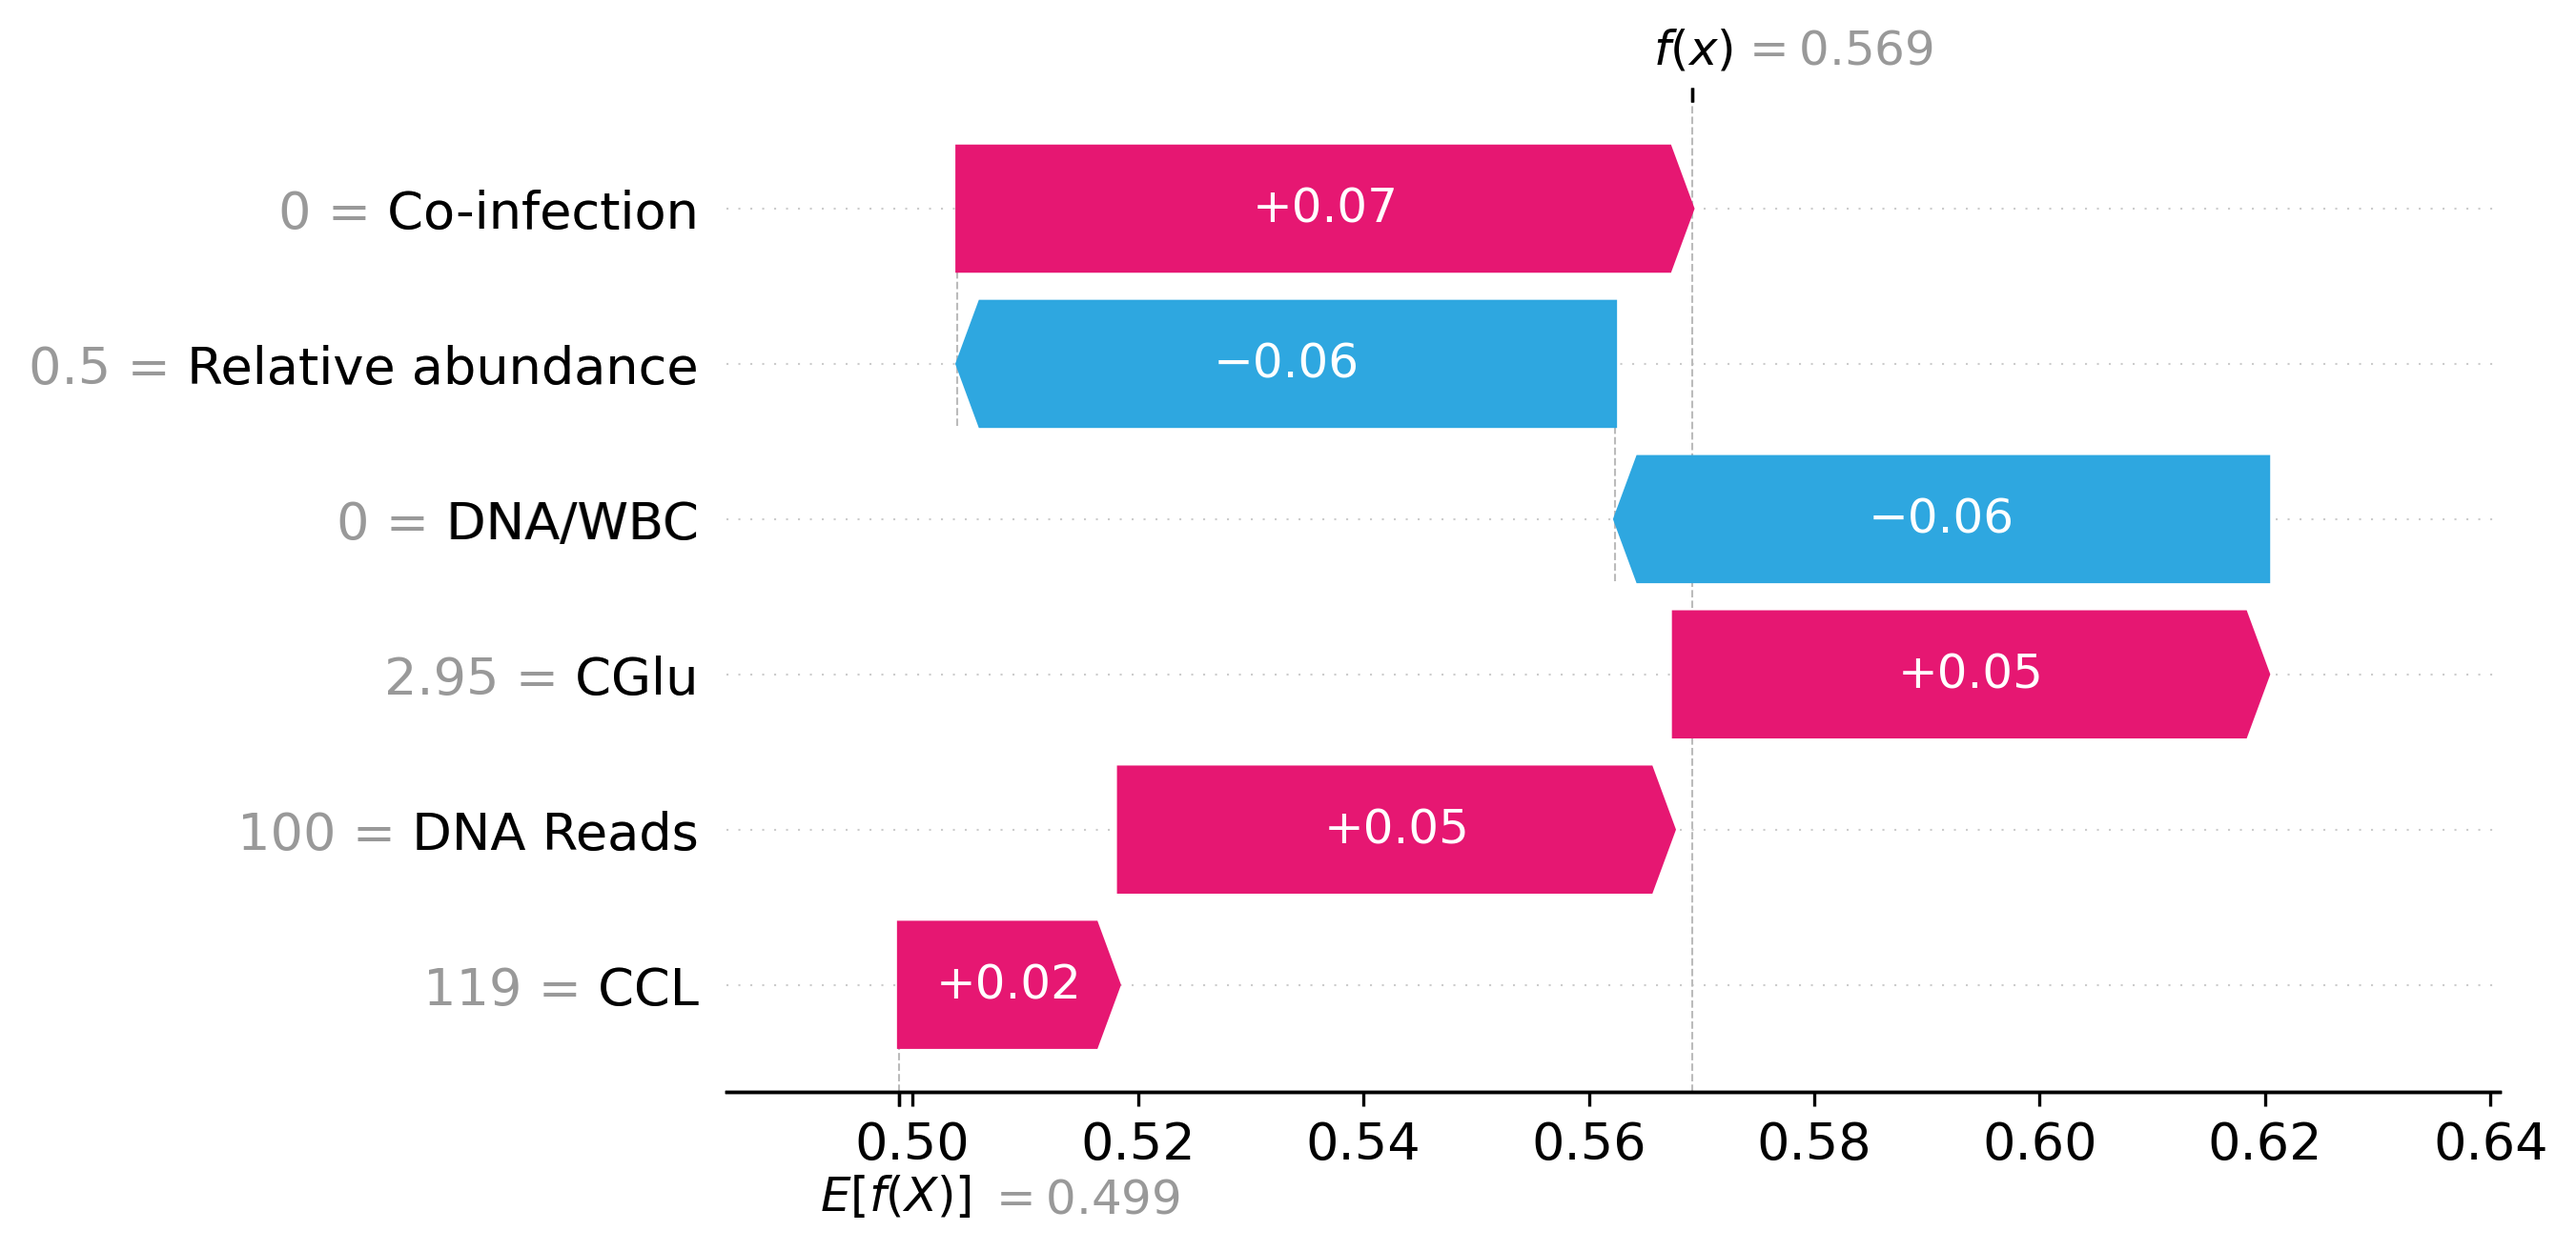
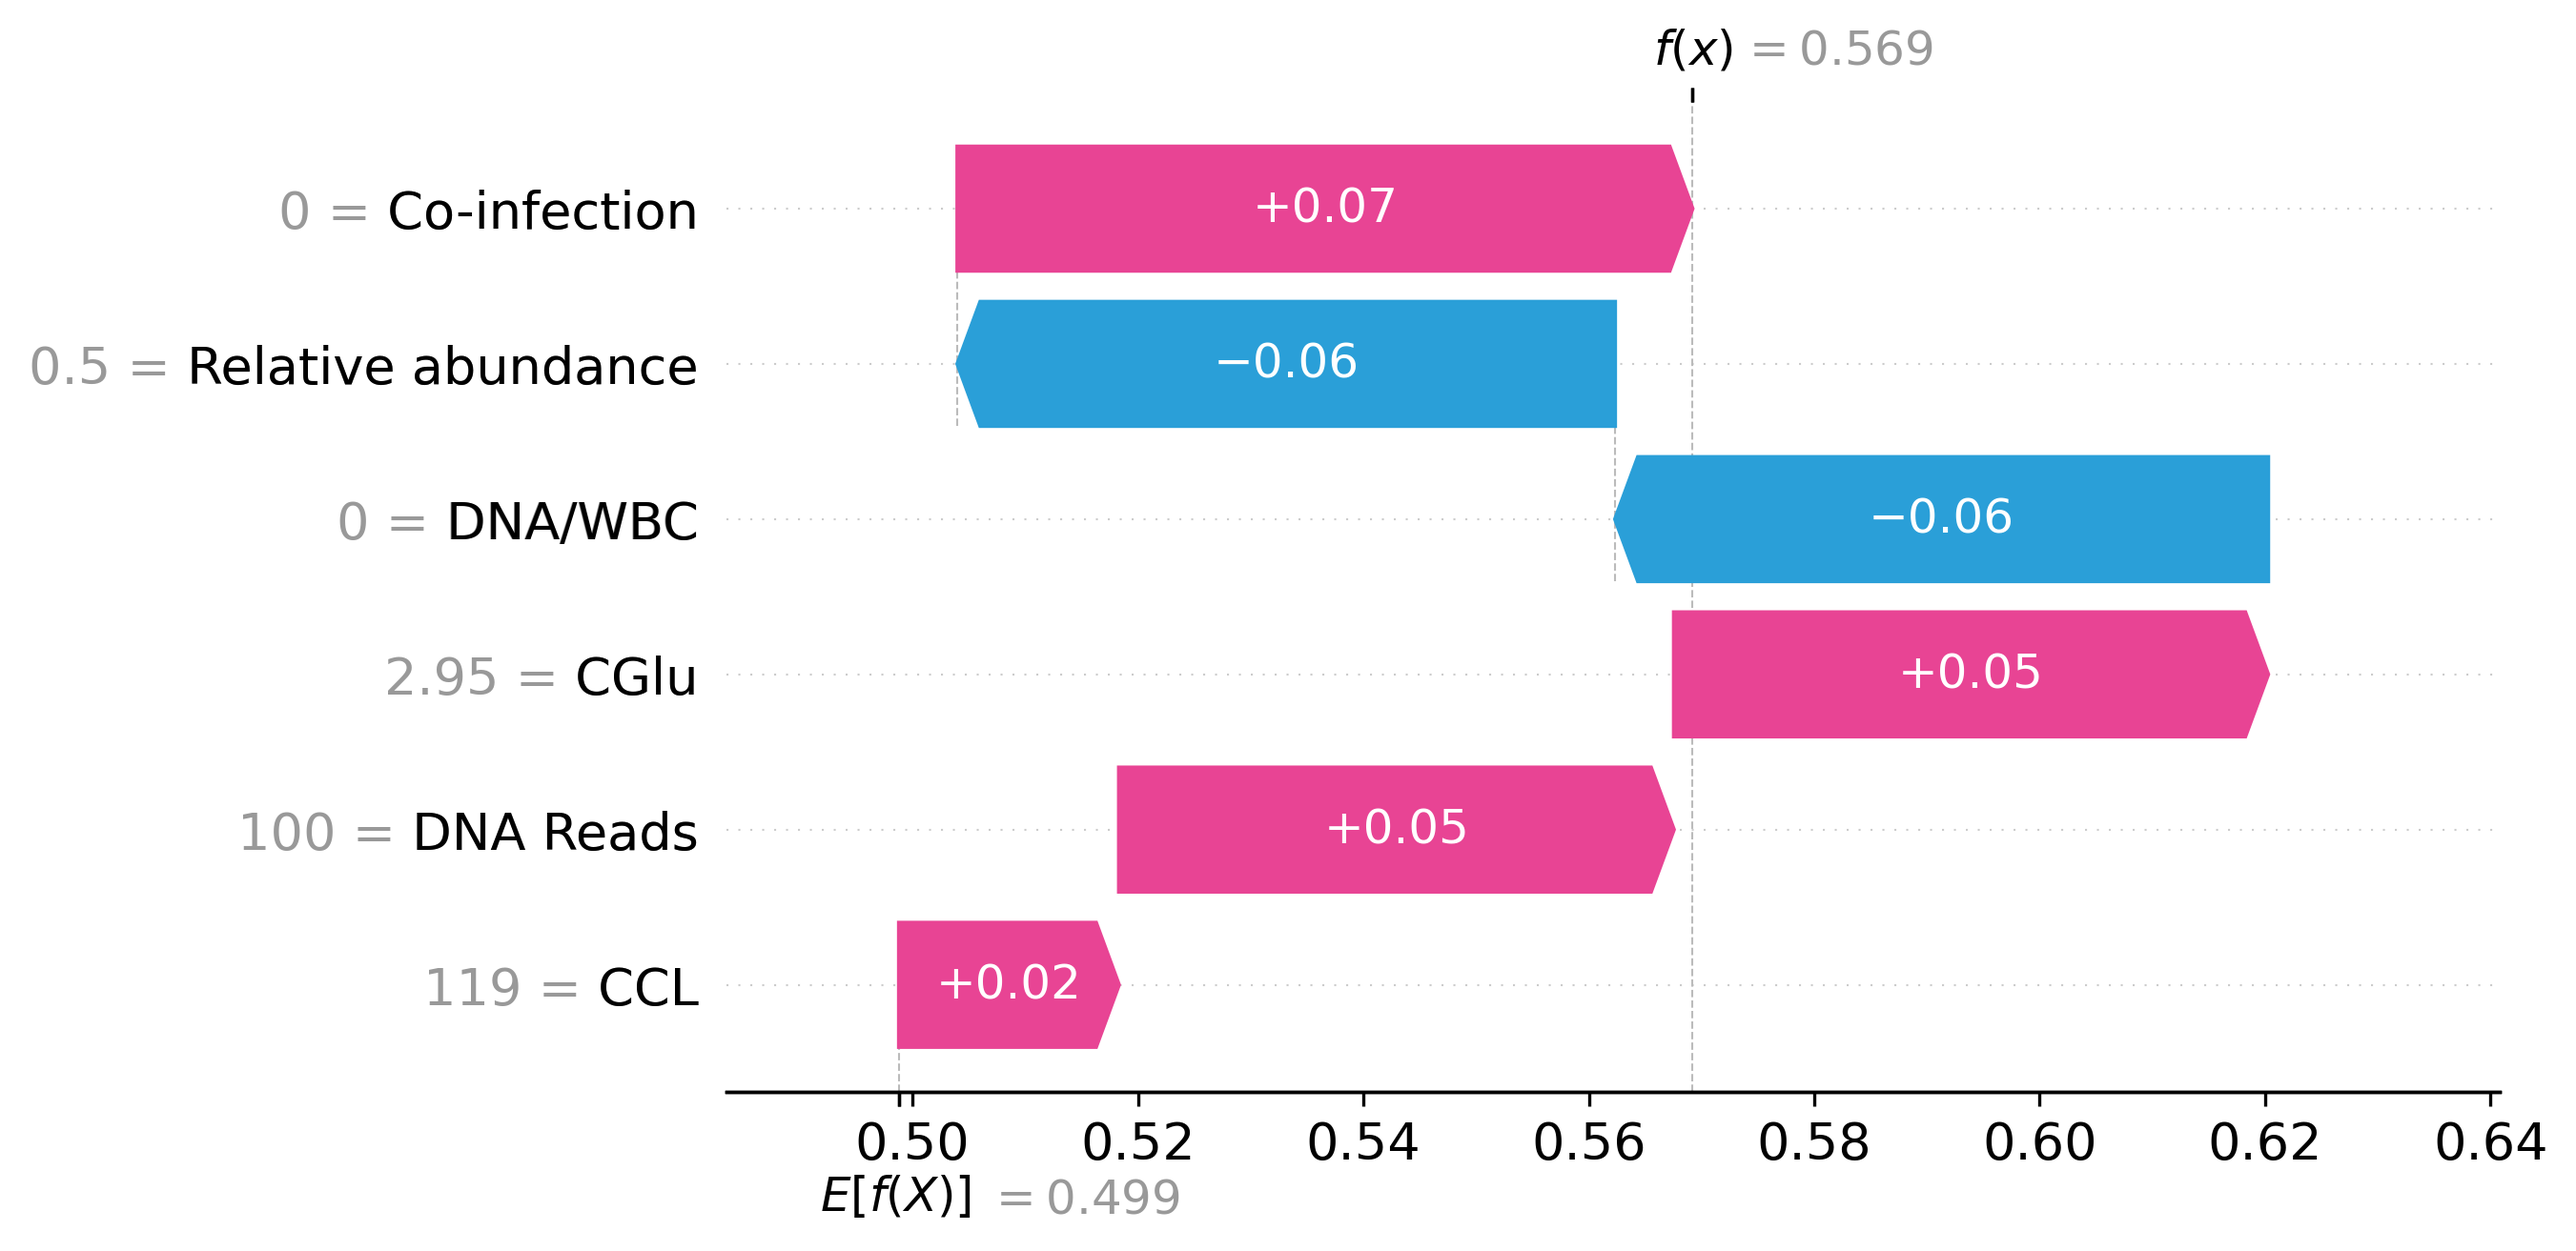
特征顺序修改

Changed region(s): [[0.4352, 0.4684, 0.9016, 0.7182], [0.3731, 0.0937, 0.6839, 0.2186], [0.342, 0.7182, 0.4352, 0.8431]]

diff --git a/app.py b/app.py
@@ -29,14 +29,13 @@ st.caption(
 
 # 用户输入特征数据 (顺序需与训练时一致)
 co_infection = st.selectbox("Co-infection (0 or 1):", options=[0, 1])
+dna_reads = st.number_input(
+    "DNA Reads:", min_value=0, max_value=1000000, value=100, step=1
+)
 relative_abundance = st.number_input(
     "Relative abundance (0-1):",
     min_value=0.0, max_value=1.0, value=0.5, step=0.01, format="%.4f",
 )
-dna_reads = st.number_input(
-    "DNA Reads:", min_value=0, max_value=1000000, value=100, step=1
-)
-dna_wbc = st.selectbox("DNA/WBC (0 or 1):", options=[0, 1])
 ccl = st.number_input(
     "CCL (CSF chloride, mmol/L):",
     min_value=0.0, max_value=200.0, value=119.0, step=0.1, format="%.1f",
@@ -45,6 +44,7 @@ cglu = st.number_input(
     "CGlu (CSF glucose, mmol/L):",
     min_value=0.0, max_value=30.0, value=2.95, step=0.01, format="%.2f",
 )
+dna_wbc = st.selectbox("DNA/WBC (0 or 1):", options=[0, 1])
 
 # 将输入的数据转化为模型的输入格式 (顺序与 feature_cols 一致)
 feature_values = [co_infection, relative_abundance, dna_reads, dna_wbc, ccl, cglu]
@@ -103,8 +103,8 @@ if st.button("Predict"):
 
         # 瀑布图 (waterfall plot) — 显式区分正负颜色
         # 正向贡献用红色，负向贡献用蓝色
-        shap.plots.colors.red_rgb = "#e61772"     # 猩红色
-        shap.plots.colors.blue_rgb = "#2ea7e0"    # 道奇蓝
+        shap.plots.colors.red_rgb = "#e84494"     # 猩红色
+        shap.plots.colors.blue_rgb = "#2a9fd8"    # 道奇蓝
         shap.plots.waterfall(
             shap.Explanation(
                 values=sv[0],
